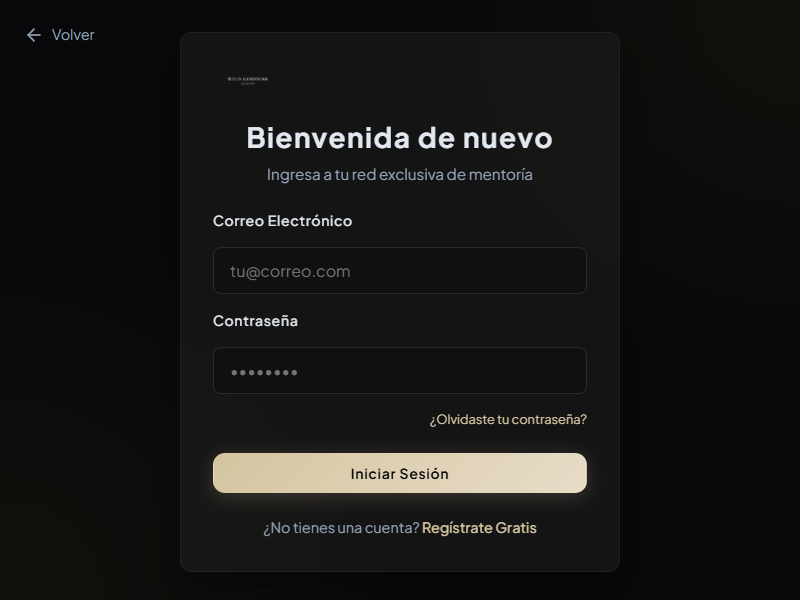
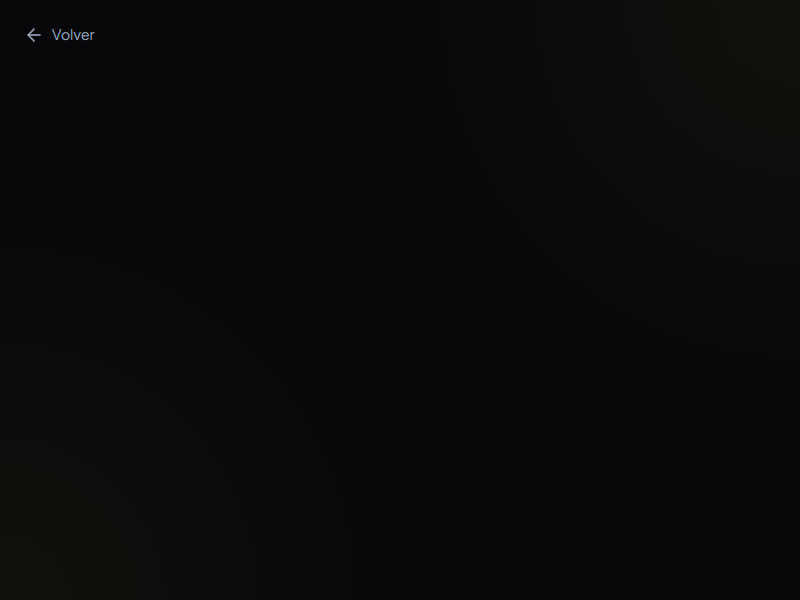
fix: support both VITE_SUPABASE_KEY and VITE_SUPABASE_ANON_KEY env vars

diff --git a/debug_login.js b/debug_login.js
@@ -13,7 +13,7 @@ async function runTest() {
 
   try {
     console.log("Navigating to Login...");
-    await page.goto('http://localhost:3000/login.html', { waitUntil: 'networkidle0' });
+    await page.goto('https://wild-connections.vercel.app/login.html', { waitUntil: 'networkidle0' });
     
     // Take screenshot
     await page.screenshot({ path: 'login_debug.png' });

diff --git a/src/js/supabase-client.js b/src/js/supabase-client.js
@@ -1,7 +1,7 @@
 import { createClient } from '@supabase/supabase-js';
 
 const supabaseUrl = import.meta.env.VITE_SUPABASE_URL;
-const supabaseKey = import.meta.env.VITE_SUPABASE_KEY;
+const supabaseKey = (import.meta.env.VITE_SUPABASE_KEY || import.meta.env.VITE_SUPABASE_ANON_KEY);
 
 export const supabase = createClient(supabaseUrl, supabaseKey);
 
